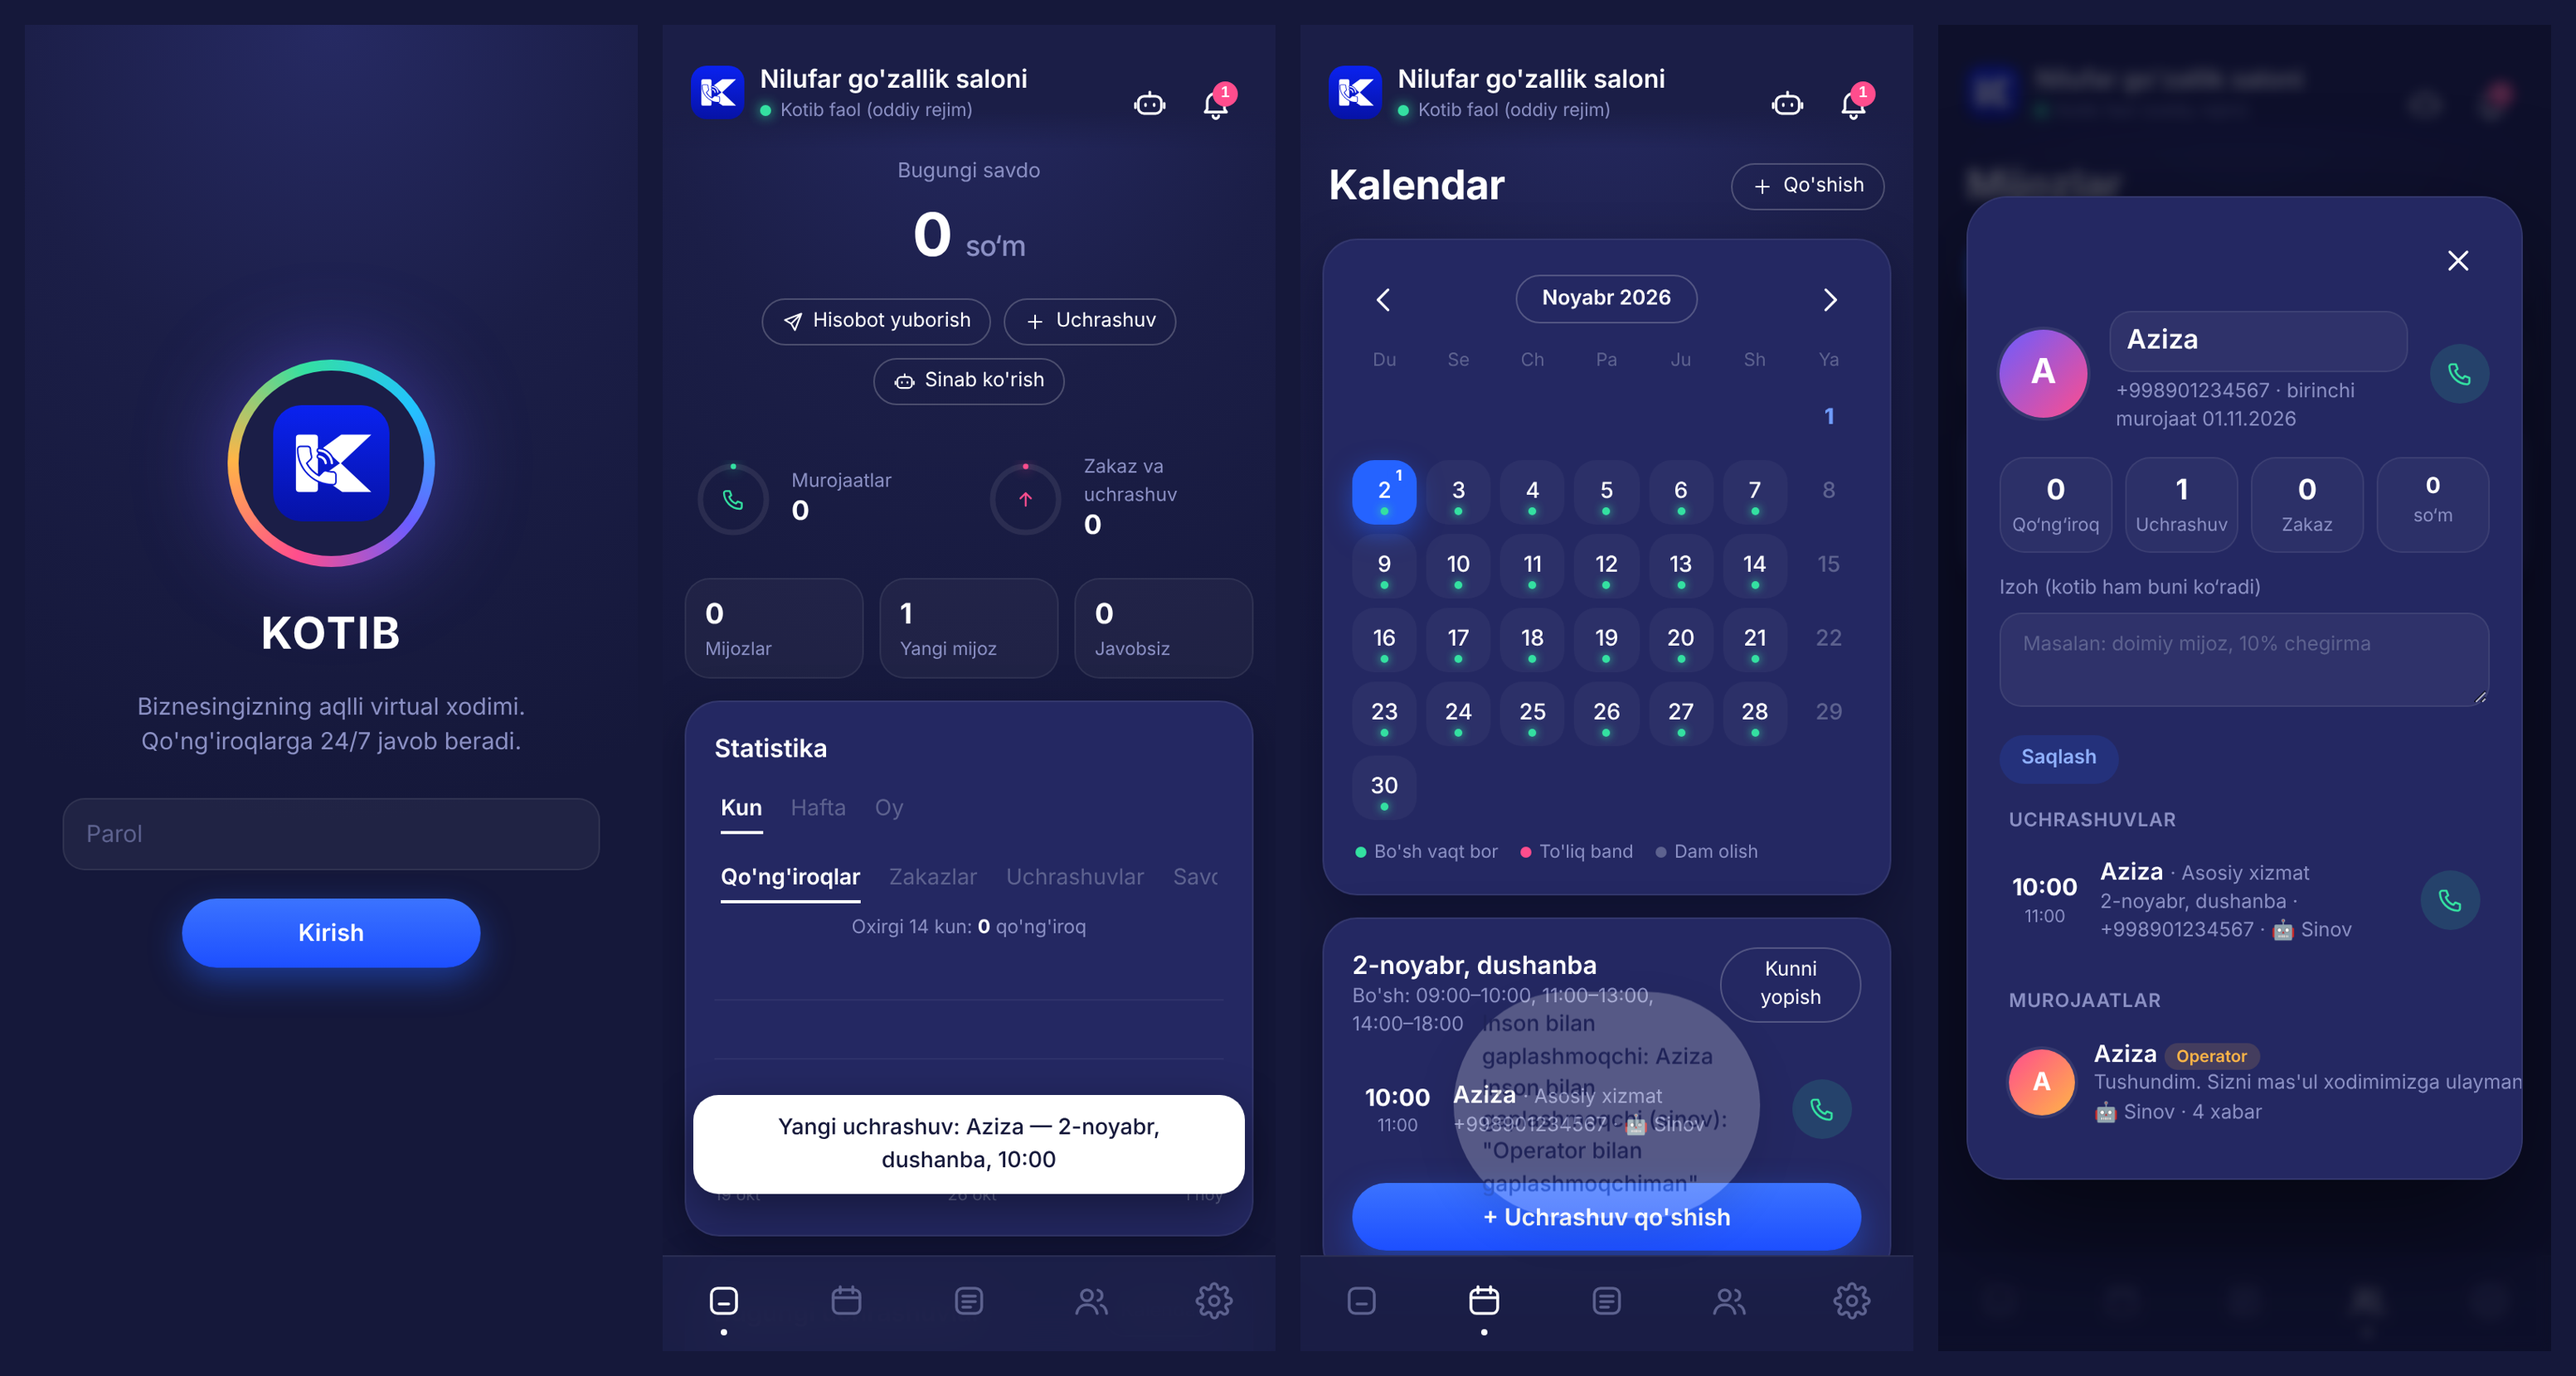
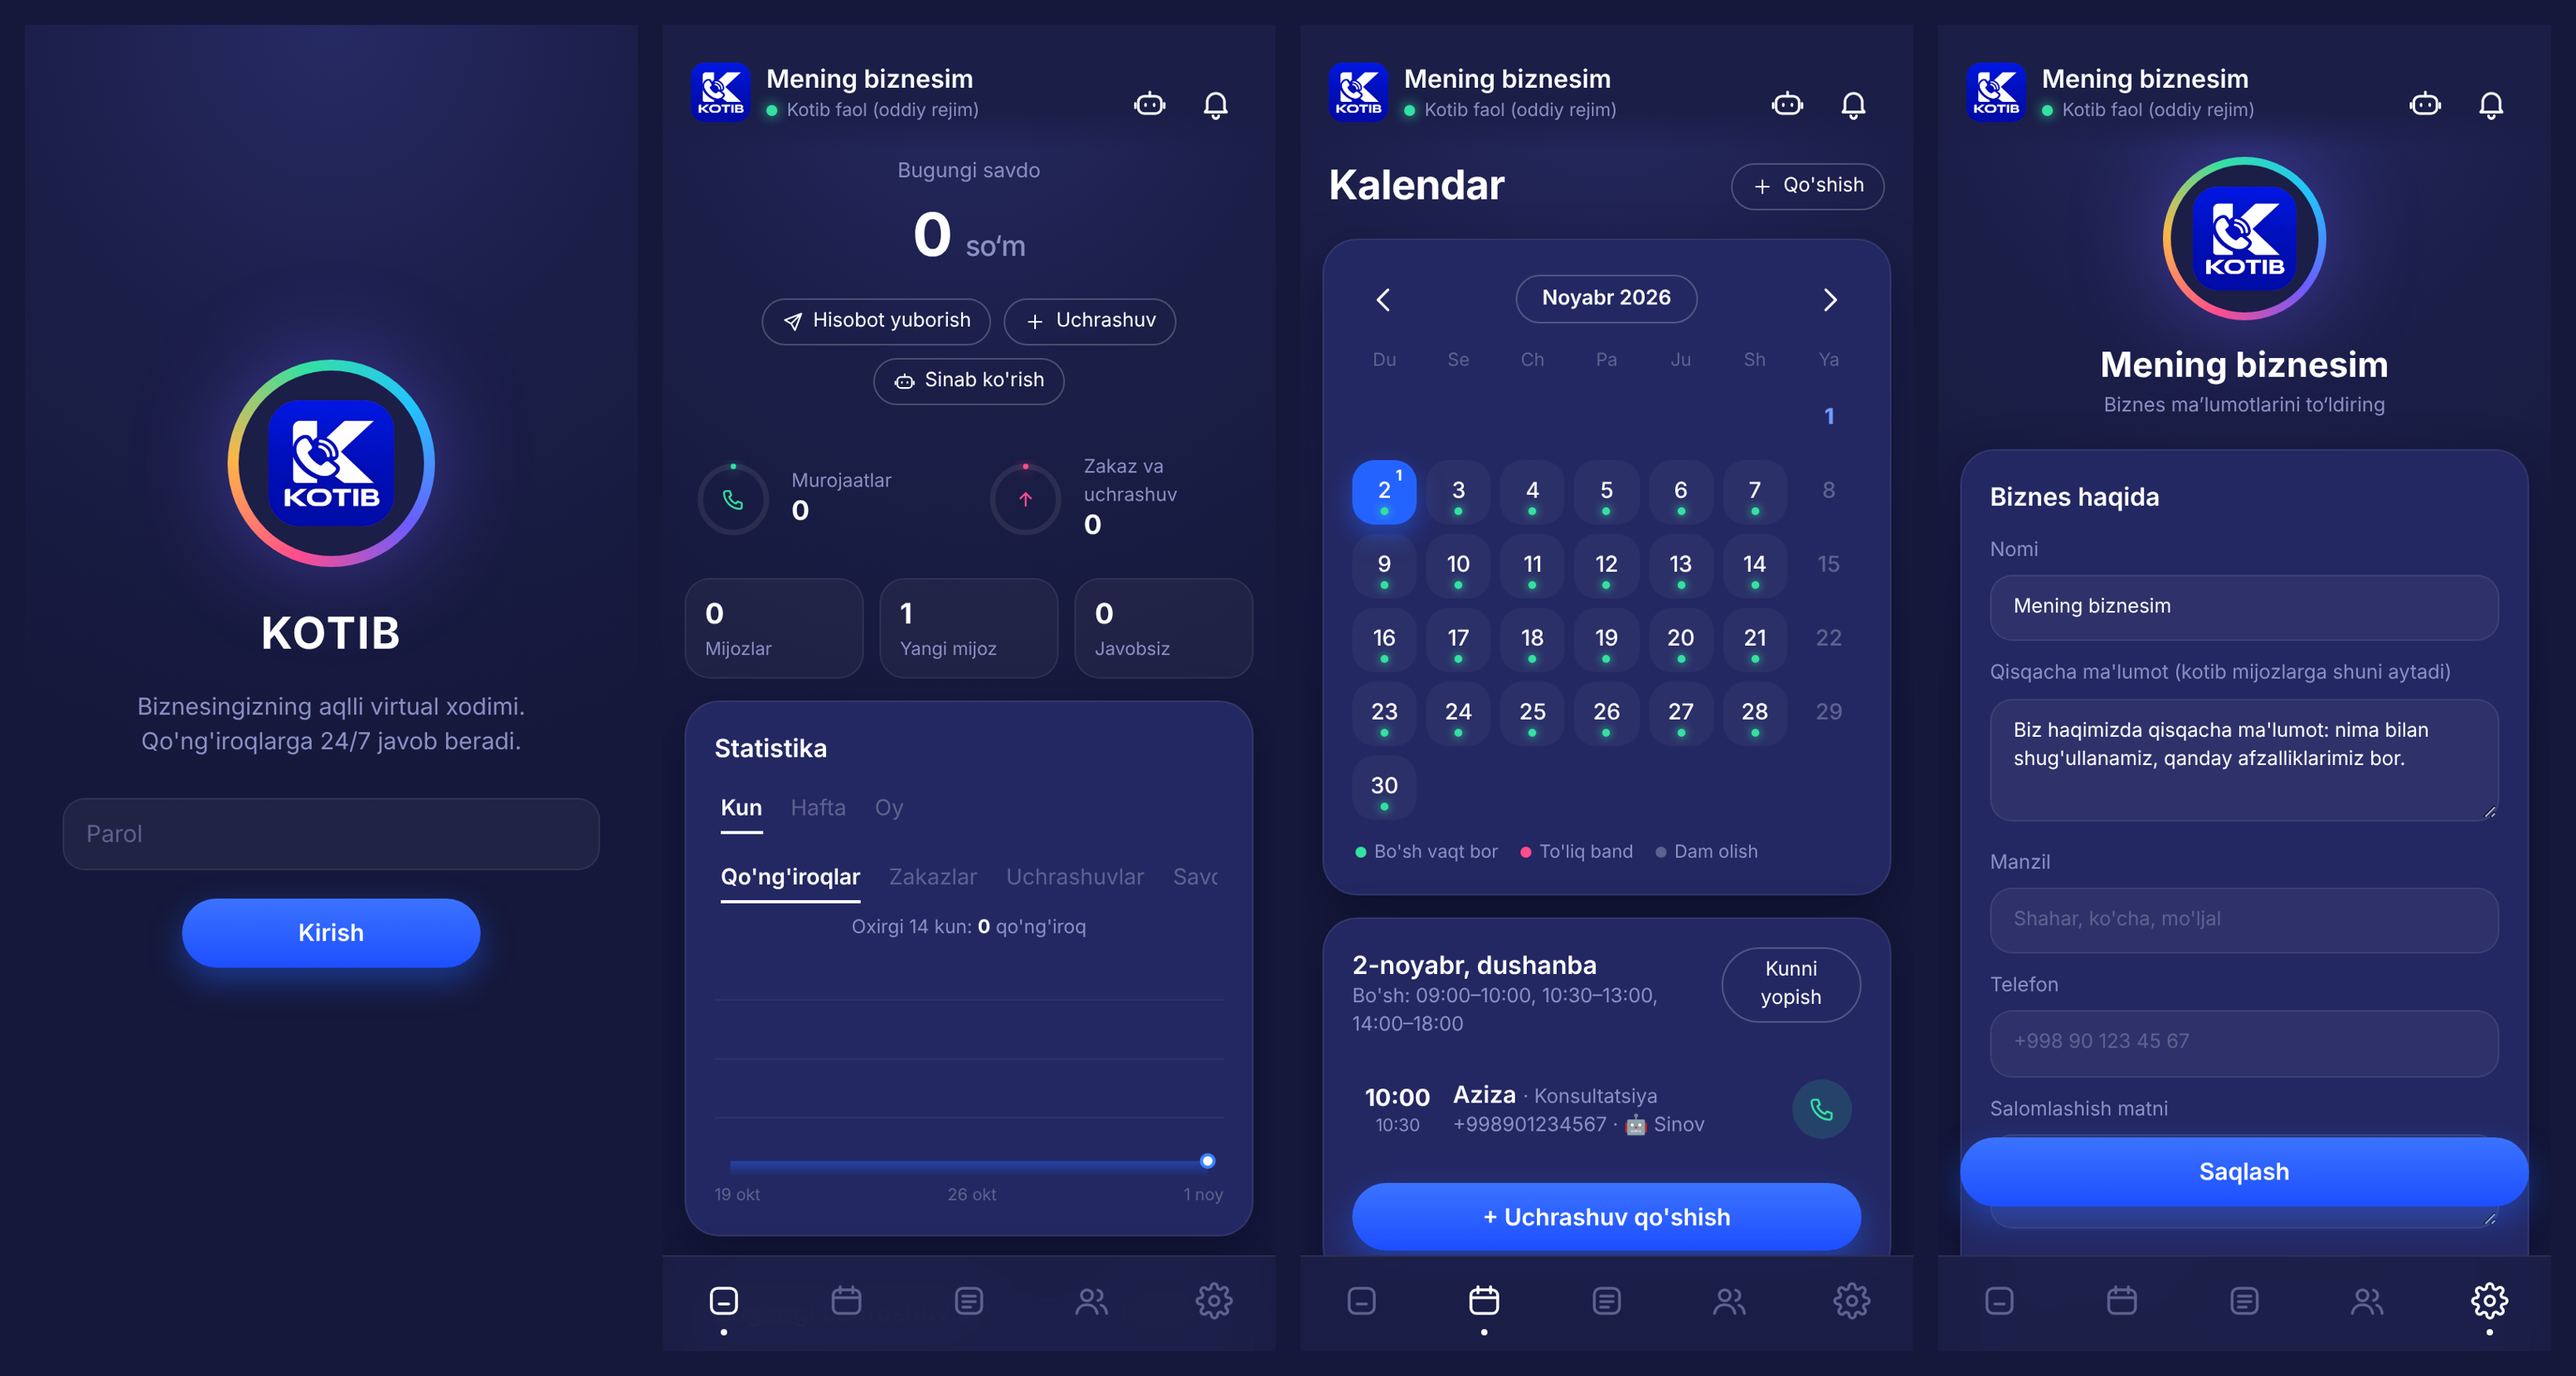
Kotib: asl logotip o'zgarishsiz joylandi
Egasi yuborgan KOTIB logotipi (rasm) hamma joyda ishlatiladi: ilova ikonkasi,
favicon, sarlavha, kirish va sozlamalar ekrani, mijoz chati. Faqat tashqi oq fon
shaffof qilindi; logotipning o'zi va telefon belgisi orqasidagi ko'k rang o'zgarmagan.

Claude-Session: https://claude.ai/code/session_0158RahAoyHKJBhT6iVQVxgX

diff --git a/kotib/public/styles.css b/kotib/public/styles.css
@@ -55,7 +55,7 @@ label.check input { width: auto; }
 .login-card { width: 100%; max-width: 360px; }
 .halo { width: 132px; height: 132px; border-radius: 50%; margin: 0 auto 22px; padding: 7px; background: var(--rainbow); box-shadow: 0 0 60px rgba(107, 92, 255, .45); }
 .halo > div { width: 100%; height: 100%; border-radius: 50%; background: var(--bg); display: grid; place-items: center; }
-.halo img { width: 74px; height: 74px; border-radius: 18px; }
+.halo img { width: 80px; height: 80px; }
 .login h1 { margin: 0 0 6px; font-size: 28px; letter-spacing: 1px; }
 .login form { display: grid; gap: 12px; margin-top: 26px; }
 .login .btn.primary { justify-self: center; min-width: 190px; margin-top: 6px; }
@@ -65,7 +65,7 @@ label.check input { width: auto; }
 #app { max-width: 760px; margin: 0 auto; padding-bottom: calc(86px + env(safe-area-inset-bottom)); }
 .top { display: flex; justify-content: space-between; align-items: center; padding: calc(16px + env(safe-area-inset-top)) 18px 8px; position: sticky; top: 0; z-index: 5; background: linear-gradient(var(--bg) 70%, transparent); }
 .top .brand { display: flex; align-items: center; gap: 10px; min-width: 0; }
-.top .brand img { width: 34px; height: 34px; border-radius: 10px; }
+.top .brand img { width: 38px; height: 38px; }
 .top .title { font-weight: 600; font-size: 16px; white-space: nowrap; overflow: hidden; text-overflow: ellipsis; }
 .top .sub { font-size: 11.5px; color: var(--muted); display: flex; align-items: center; gap: 6px; }
 .status-dot { width: 7px; height: 7px; border-radius: 50%; background: var(--dim); display: inline-block; }
@@ -189,7 +189,7 @@ main { padding: 0 14px; }
 /* Sozlamalar */
 .profile { text-align: center; padding: 6px 0 18px; }
 .profile .halo { width: 104px; height: 104px; padding: 5px; margin-bottom: 14px; }
-.profile .halo img { width: 60px; height: 60px; }
+.profile .halo img { width: 66px; height: 66px; }
 .profile .name { font-size: 22px; font-weight: 700; }
 .set-row { display: flex; justify-content: space-between; align-items: center; gap: 12px; padding: 12px 0; border-bottom: 1px solid var(--line); }
 .set-row:last-child { border-bottom: 0; }
@@ -242,7 +242,7 @@ dialog::backdrop { background: rgba(8, 10, 32, .7); backdrop-filter: blur(4px); 
 /* Mijoz chat sahifasi */
 .public { max-width: 560px; margin: 0 auto; min-height: 100vh; display: flex; flex-direction: column; padding: 0 14px; }
 .public header { display: flex; align-items: center; gap: 12px; padding: calc(18px + env(safe-area-inset-top)) 4px 14px; }
-.public header img { width: 46px; height: 46px; border-radius: 13px; }
+.public header img { width: 48px; height: 48px; }
 .public .chat { flex: 1; max-height: none; background: var(--card); border-radius: var(--radius); padding: 14px; box-shadow: var(--shadow); border: 1px solid var(--line); }
 .public .chat-form { padding-bottom: calc(8px + env(safe-area-inset-bottom)); }
 .quick { display: flex; gap: 6px; flex-wrap: wrap; margin-top: 12px; }

diff --git a/kotib/public/index.html b/kotib/public/index.html
@@ -8,7 +8,7 @@
   <meta name="apple-mobile-web-app-status-bar-style" content="black-translucent">
   <title>Kotib — aqlli virtual xodim</title>
   <link rel="manifest" href="/manifest.webmanifest">
-  <link rel="icon" href="/icon.svg" type="image/svg+xml">
+  <link rel="icon" href="/favicon.png" type="image/png">
   <link rel="apple-touch-icon" href="/icon-192.png">
   <link rel="stylesheet" href="/styles.css">
 </head>
@@ -38,7 +38,7 @@
   <!-- Kirish -->
   <section id="login" class="login hidden">
     <div class="login-card">
-      <div class="halo"><div><img src="/mark.svg" alt="Kotib"></div></div>
+      <div class="halo"><div><img src="/logo-256.png" alt="Kotib"></div></div>
       <h1>KOTIB</h1>
       <p class="muted" id="login-hint">Biznesingizning aqlli virtual xodimi.<br>Qo'ng'iroqlarga 24/7 javob beradi.</p>
       <form id="login-form">
@@ -54,7 +54,7 @@
   <section id="app" class="hidden">
     <header class="top">
       <div class="brand">
-        <img src="/mark.svg" alt="">
+        <img src="/logo-256.png" alt="">
         <div style="min-width:0">
           <div class="title" id="biz-name">Kotib</div>
           <div class="sub"><span class="status-dot" id="live"></span><span id="top-sub">Kotib faol</span></div>
@@ -189,7 +189,7 @@
       <!-- Sozlamalar -->
       <div class="view hidden" id="v-settings">
         <div class="profile">
-          <div class="halo"><div><img src="/mark.svg" alt=""></div></div>
+          <div class="halo"><div><img src="/logo-256.png" alt=""></div></div>
           <div class="name" id="p-name"></div>
           <div class="muted small" id="p-sub"></div>
         </div>

diff --git a/kotib/public/sw.js b/kotib/public/sw.js
@@ -1,6 +1,6 @@
 // Kotib — ilovani telefonga o'rnatish uchun. Avval tarmoq, internet bo'lmasa — saqlangan nusxa.
-const CACHE = 'kotib-v2';
-const SHELL = ['/', '/index.html', '/app.js', '/styles.css', '/icon.svg', '/mark.svg', '/icon-192.png', '/manifest.webmanifest'];
+const CACHE = 'kotib-v3';
+const SHELL = ['/', '/index.html', '/app.js', '/styles.css', '/logo-256.png', '/favicon.png', '/icon-192.png', '/manifest.webmanifest'];
 self.addEventListener('install', (e) => { e.waitUntil(caches.open(CACHE).then((c) => c.addAll(SHELL)).catch(() => {})); self.skipWaiting(); });
 self.addEventListener('activate', (e) => { e.waitUntil(caches.keys().then((ks) => Promise.all(ks.filter((k) => k !== CACHE).map((k) => caches.delete(k))))); self.clients.claim(); });
 self.addEventListener('fetch', (e) => {

diff --git a/kotib/public/chat.html b/kotib/public/chat.html
@@ -5,13 +5,13 @@
   <meta name="viewport" content="width=device-width, initial-scale=1, viewport-fit=cover">
   <meta name="theme-color" content="#1b1e47">
   <title>Onlayn yozilish</title>
-  <link rel="icon" href="/icon.svg" type="image/svg+xml">
+  <link rel="icon" href="/favicon.png" type="image/png">
   <link rel="stylesheet" href="/styles.css">
 </head>
 <body>
   <div class="public">
     <header>
-      <img src="/mark.svg" alt="">
+      <img src="/logo-256.png" alt="">
       <div><b id="name">…</b><div class="muted small">Onlayn kotib · 24/7</div></div>
     </header>
     <div class="chat" id="chat"></div>
